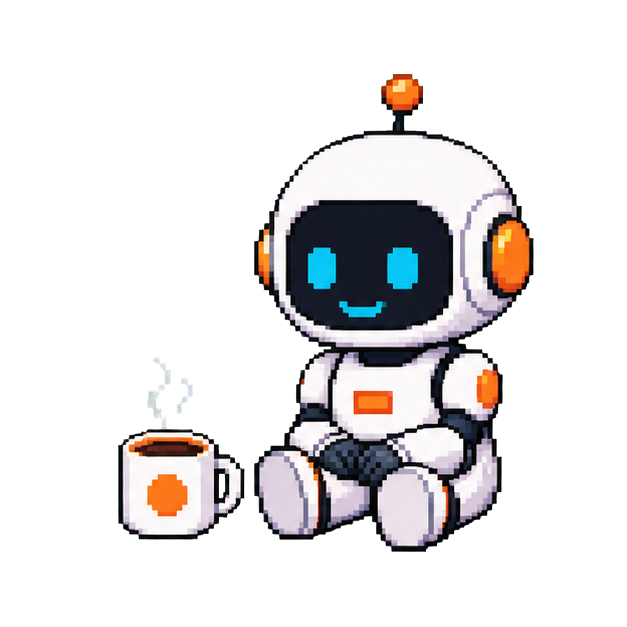
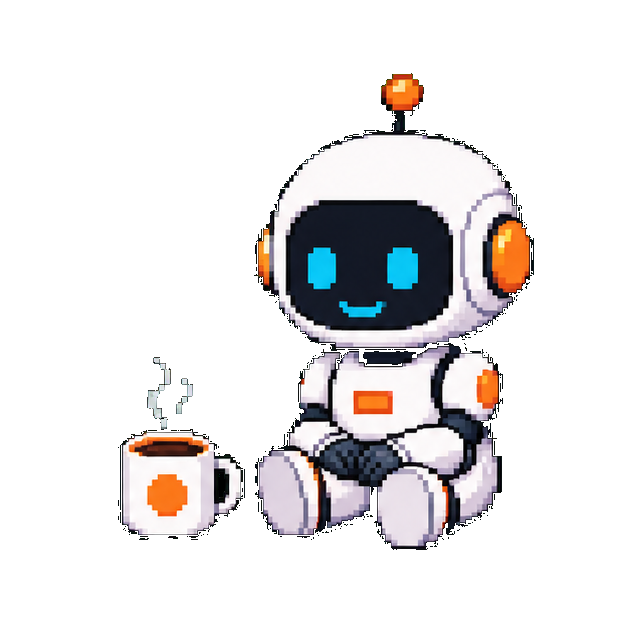
Bring the Mac focus companion in line with the iPhone app
The companion now uses the iPhone app's single-character artwork; the old
idle and paused files were sheets of four mascots, so the card showed half
robots. The companion card opens Progress. Poses react to a tap, the
working mascot breathes, effects show only after a tap, and Reduce Motion
turns all of it off.

The companion modes and their unlock thresholds live in one CompanionMode
type shared by Settings and the stage, and a locked mode falls back to Auto
when it is shown, not only when it is picked, so deleting sessions below a
threshold no longer leaves it unlocked.

Animations are not gated on scenePhase as on iPhone: Clockin's windows are
AppKit-hosted, outside a SwiftUI scene, and report `.background`, which froze
the mascot. Tap effects follow the interface size again.

diff --git a/Sources/Clockin/MascotAsset.swift b/Sources/Clockin/MascotAsset.swift
@@ -1,111 +1,220 @@
 import AppKit
 import SwiftUI
-import Combine
 
+enum MascotAsset: String {
+    case idle, working, paused, celebrate
+
+    /// Tek karakterli gorsel. `idle`/`paused` dosyalari eskiden dort maskotluk
+    /// birer sayfaydi ve kartta yarim robotlar gorunuyordu; artik `pose2` ve
+    /// `coffee1`'in kopyalari. Progress ekrani hala o adlarla okuyor.
+    var imageName: String {
+        switch self {
+        case .idle: "pose2"
+        case .paused: "coffee1"
+        case .working: "working"
+        case .celebrate: "celebrate"
+        }
+    }
+
+    var message: String {
+        switch self {
+        case .idle: "Ready when you are"
+        case .working: "You are doing great, keep going!"
+        case .paused: "Taking a reset break"
+        case .celebrate: "Every focused hour makes your companion stronger."
+        }
+    }
+}
+
+@MainActor
 struct ClockinMascotImage: View {
-    @AppStorage(UIScale.key) private var uiScaleObserver = UIScale.defaultPercent
     let asset: String
+    private static var images: [String: NSImage] = [:]
+
+    private static func image(named asset: String) -> NSImage? {
+        if let cached = images[asset] { return cached }
+        guard let url = Bundle.module.url(forResource: asset, withExtension: "png"),
+              let image = NSImage(contentsOf: url) else { return nil }
+        images[asset] = image
+        return image
+    }
+
     var body: some View {
         Group {
-            if let url = Bundle.module.url(forResource: asset, withExtension: "png"), let image = NSImage(contentsOf: url) {
+            if let image = Self.image(named: asset) {
                 Image(nsImage: image).resizable().interpolation(.none).scaledToFit()
             } else {
-                Image(systemName: "sparkles").resizable().scaledToFit().padding(S(18)).foregroundStyle(.cyan)
+                Image(systemName: "sparkles").resizable().scaledToFit()
+                    .padding(S(18)).foregroundStyle(.cyan)
             }
         }
+        .accessibilityHidden(true)
     }
 }
 
-struct ClockinTypingMascot: View {
-    var body: some View { ClockinFrameMascot(prefix: "frame", interval: 0.18) }
-}
-
-struct ClockinCoffeeMascot: View {
-    var body: some View { ClockinFrameMascot(prefix: "coffee", interval: 0.28) }
-}
-
-struct ClockinMascotEffects: View {
-    @State private var effect = Int.random(in: 0...4)
-    @State private var animate = false
-    private let timer = Timer.publish(every: 8, on: .main, in: .common).autoconnect()
-    var body: some View {
-        ZStack {
-            switch effect {
-            case 0: Text("$  $  $").font(.system(size: S(10), weight: .black, design: .rounded)).foregroundStyle(.green).offset(x: 13, y: animate ? 27 : -24).opacity(animate ? 0 : 1)
-            case 1: Text("✦  ✧  ✦").font(.system(size: S(12), weight: .bold)).foregroundStyle(.orange).scaleEffect(animate ? 1.25 : 0.7).opacity(animate ? 0.2 : 1)
-            case 2: Text("♪  ♫  ♪").font(.system(size: S(12), weight: .bold)).foregroundStyle(.cyan).offset(x: animate ? 18 : -8, y: animate ? -20 : 8).opacity(animate ? 0 : 1)
-            case 3: Text("✹  ✹").font(.system(size: S(11), weight: .bold)).foregroundStyle(.yellow).rotationEffect(.degrees(animate ? 35 : -15)).opacity(animate ? 0.2 : 1)
-            default: Text("+XP").font(.system(size: S(10), weight: .black, design: .monospaced)).foregroundStyle(.green).offset(y: animate ? -25 : 2).opacity(animate ? 0 : 1)
-            }
-        }
-        .animation(.easeOut(duration: 1.6), value: animate)
-        .onAppear { animate = true }
-        .onReceive(timer) { _ in
-            effect = Int.random(in: 0...4)
-            animate = false
-            withAnimation(.easeOut(duration: 1.6)) { animate = true }
-        }
-        .contentShape(Rectangle())
-        .onTapGesture {
-            effect = Int.random(in: 0...4)
-            animate = false
-            withAnimation(.spring(response: 0.25, dampingFraction: 0.65)) { animate = true }
-        }
-    }
-}
-
+@MainActor
 struct ClockinMascotStage: View {
-    @EnvironmentObject private var store: ClockStore
+    @Environment(\.accessibilityReduceMotion) private var reduceMotion
     @AppStorage("Clockin.MascotDefault") private var defaultMode = "Auto"
+    @EnvironmentObject private var store: ClockStore
+    private var state: MascotAsset {
+        guard let running = store.running else { return .idle }
+        return running.isPaused ? .paused : .working
+    }
     @State private var pose: Int?
     @State private var poseToken = UUID()
+
     var body: some View {
-        ZStack {
-            if let pose { ClockinPoseMascot(index: pose) }
-            else if defaultMode == "Typing" { ClockinTypingMascot() }
-            else if defaultMode == "Coffee" { ClockinCoffeeMascot() }
-            else if let fixed = ["Victory", "Stretch", "Dance", "Music"].firstIndex(of: defaultMode) { ClockinPoseMascot(index: fixed + 1) }
-            else if store.running?.isPaused == false { ClockinTypingMascot() }
-            else if store.running?.isPaused == true { ClockinCoffeeMascot() }
-            else { ClockinMascotImage(asset: "idle") }
-            ClockinMascotEffects()
+        // Esik burada da denetlenir: secildikten sonra oturumlar silinip toplam
+        // sure esigin altina duserse kilitli mod acik kalmasin.
+        let mode = CompanionMode.resolve(defaultMode, totalHours: (store.totalDuration + store.elapsed()) / 3600)
+        return ZStack {
+            if let pose {
+                ClockinPoseMascot(index: pose)
+            } else if mode == .typing {
+                ClockinFrameMascot(prefix: "frame", interval: 0.18)
+            } else if mode == .coffee {
+                ClockinFrameMascot(prefix: "coffee", interval: 0.28)
+            } else if let fixed = mode.fixedPoseIndex {
+                ClockinPoseMascot(index: fixed)
+            } else {
+                switch state {
+                case .working: ClockinFrameMascot(prefix: "frame", interval: 0.18)
+                case .paused: ClockinFrameMascot(prefix: "coffee", interval: 0.28)
+                case .idle, .celebrate: ClockinMascotImage(asset: state.imageName)
+                }
+            }
+            if !reduceMotion && pose != nil {
+                ClockinMascotEffects()
+                    .id(poseToken)
+                    .allowsHitTesting(false)
+            }
         }
+        .phaseAnimator(breathing ? [false, true] : [false]) { content, lifted in
+            content
+                .offset(y: breathing && lifted ? -1.5 : 0)
+                .scaleEffect(breathing && lifted ? 1.018 : 1, anchor: .bottom)
+        } animation: { _ in
+            breathing ? .easeInOut(duration: 2.4) : nil
+        }
+        .phaseAnimator([false, true, false], trigger: state) { content, settling in
+            content
+                .scaleEffect(!reduceMotion && settling ? 0.96 : 1)
+                .offset(y: !reduceMotion && settling ? 2 : 0)
+        } animation: { settling in
+            reduceMotion ? nil : (settling ? .easeOut(duration: 0.1) : .spring(duration: 0.4, bounce: 0.2))
+        }
+        .phaseAnimator([false, true, false], trigger: poseToken) { content, reacting in
+            content
+                .scaleEffect(!reduceMotion && reacting ? 1.12 : 1)
+                .rotationEffect(.degrees(!reduceMotion && reacting ? -7 : 0))
+                .offset(y: !reduceMotion && reacting ? -4 : 0)
+        } animation: { reacting in
+            reduceMotion ? nil : .spring(duration: reacting ? 0.2 : 0.45, bounce: 0.3)
+        }
+        .transaction { if reduceMotion { $0.animation = nil; $0.disablesAnimations = true } }
         .contentShape(Rectangle())
-        .onTapGesture {
-            let token = UUID(); poseToken = token; pose = Int.random(in: 1...4)
-            DispatchQueue.main.asyncAfter(deadline: .now() + 2.2) { if poseToken == token { pose = nil } }
+        .onTapGesture { showPose() }
+        .accessibilityElement(children: .ignore)
+        .accessibilityLabel("Focus companion")
+        .accessibilityAddTraits(.isButton)
+        .accessibilityAction { showPose() }
+        .task(id: poseToken) {
+            guard pose != nil else { return }
+            // Yeni dokunus eski beklemeyi iptal eder; poz erken kapanmaz.
+            do { try await Task.sleep(for: .seconds(2.2)) }
+            catch { return }
+            pose = nil
         }
+    }
+
+    private var breathing: Bool { state == .working && !reduceMotion }
+
+    private func showPose() {
+        pose = (1...4).filter { $0 != pose }.randomElement()
+        poseToken = UUID()
     }
 }
 
 private struct ClockinPoseMascot: View {
+    @Environment(\.accessibilityReduceMotion) private var reduceMotion
     let index: Int
-    @State private var moving = false
+
+    // `scenePhase` burada kullanilmaz: pencere AppKit'in NSHostingView'i ile
+    // aciliyor, bir SwiftUI sahnesine ait degil ve deger hep `.background`
+    // geliyor. Ona bakmak maskotu tamamen donduruyordu.
+    private var isAnimating: Bool { !reduceMotion }
+
     var body: some View {
-        Group {
-            if let url = Bundle.module.url(forResource: "pose\(index)", withExtension: "png"), let image = NSImage(contentsOf: url) {
-                Image(nsImage: image).resizable().interpolation(.none).scaledToFit()
-            } else { Image(systemName: "sparkles") }
-        }
-        .scaleEffect(moving ? (index == 3 ? 1.05 : 0.98) : 1)
-        .offset(x: moving && index == 3 ? 5 : 0, y: moving ? -2 : 2)
-        .rotationEffect(.degrees(moving && index == 2 ? 5 : (moving && index == 4 ? -4 : 0)))
-        .animation(.easeInOut(duration: index == 3 ? 0.28 : 0.7).repeatForever(autoreverses: true), value: moving)
-        .onAppear { moving = true }
+        ClockinMascotImage(asset: "pose\(index)")
+            .phaseAnimator(isAnimating ? [false, true] : [false]) { content, phase in
+                let moving = isAnimating && phase
+                content
+                    .scaleEffect(moving ? (index == 3 ? 1.05 : 0.98) : 1)
+                    .offset(x: moving && index == 3 ? 3 : 0, y: moving ? -2 : 0)
+                    .rotationEffect(.degrees(moving && index == 2 ? 4 : (moving && index == 4 ? -3 : 0)))
+            } animation: { _ in
+                isAnimating ? .easeInOut(duration: index == 3 ? 0.4 : 0.9) : nil
+            }
     }
 }
 
+@MainActor
 private struct ClockinFrameMascot: View {
+    @Environment(\.accessibilityReduceMotion) private var reduceMotion
     let prefix: String
     let interval: Double
     @State private var frame = 1
-    private var timer: Publishers.Autoconnect<Timer.TimerPublisher> { Timer.publish(every: interval, on: .main, in: .common).autoconnect() }
+
+    // `scenePhase`'e bakilmaz; nedeni `ClockinPoseMascot`'ta.
+    private var isAnimating: Bool { !reduceMotion }
+
     var body: some View {
-        Group {
-            if let url = Bundle.module.url(forResource: "\(prefix)\(frame)", withExtension: "png"), let image = NSImage(contentsOf: url) {
-                Image(nsImage: image).resizable().interpolation(.none).scaledToFit()
-            } else { Image(systemName: "keyboard") }
+        ClockinMascotImage(asset: "\(prefix)\(frame)")
+            .task(id: isAnimating) {
+                guard isAnimating else { return }
+                // Gorev gorunumle yasar; sayacin yenilenmesi kareleri sifirlamaz.
+                while !Task.isCancelled {
+                    do { try await Task.sleep(for: .seconds(interval)) }
+                    catch { return }
+                    frame = frame % 4 + 1
+                }
+            }
+    }
+}
+
+private struct ClockinMascotEffects: View {
+    // Oran degisince efekt boyutlari yeniden hesaplansin.
+    @AppStorage(UIScale.key) private var uiScaleObserver = UIScale.defaultPercent
+    @State private var start = Date()
+    @State private var seed = Int.random(in: 0...4)
+
+    var body: some View {
+        TimelineView(.animation(minimumInterval: 1.0 / 30)) { context in
+            let elapsed = max(0, context.date.timeIntervalSince(start))
+            let phase = min(elapsed.truncatingRemainder(dividingBy: 8) / 1.6, 1)
+            let eased = 1 - pow(1 - phase, 3)
+            let effect = (seed + Int(elapsed / 8)) % 5
+            Group {
+                switch effect {
+                case 0:
+                    Text("$  $  $").font(.system(size: S(10), weight: .black, design: .rounded))
+                        .foregroundStyle(.green).offset(x: S(13), y: S(-24 + 51 * eased)).opacity(1 - eased)
+                case 1:
+                    Text("✦  ✧  ✦").font(.system(size: S(12), weight: .bold))
+                        .foregroundStyle(.orange).scaleEffect(0.7 + 0.55 * eased).opacity(1 - 0.8 * eased)
+                case 2:
+                    Text("♪  ♫  ♪").font(.system(size: S(12), weight: .bold))
+                        .foregroundStyle(.cyan).offset(x: S(-8 + 26 * eased), y: S(8 - 28 * eased)).opacity(1 - eased)
+                case 3:
+                    Text("✹  ✹").font(.system(size: S(11), weight: .bold))
+                        .foregroundStyle(.yellow).rotationEffect(.degrees(-15 + 50 * eased)).opacity(1 - 0.8 * eased)
+                default:
+                    Text("+XP").font(.system(size: S(10), weight: .black, design: .monospaced))
+                        .foregroundStyle(.green).offset(y: S(2 - 27 * eased)).opacity(1 - eased)
+                }
+            }
         }
-        .onReceive(timer) { _ in frame = frame % 4 + 1 }
+        .accessibilityHidden(true)
     }
 }

diff --git a/Sources/Clockin/CompanionMode.swift b/Sources/Clockin/CompanionMode.swift
@@ -1,0 +1,57 @@
+import Foundation
+
+/// Maskotun sabit davranisi. `Auto` disindaki secenekler toplam calisma
+/// suresiyle aciliyor.
+///
+/// Bu isimler once iki yerde duz metindi: ayarlardaki secici onlari yaziyor,
+/// `ClockinMascotStage` okuyor. Bir taraftaki yazim degisse digeri hata
+/// vermeden Auto'ya duserdi, o yuzden tek kaynak burasi.
+enum CompanionMode: String, CaseIterable, Identifiable, Sendable {
+    case auto = "Auto"
+    case typing = "Typing"
+    case coffee = "Coffee"
+    case victory = "Victory"
+    case stretch = "Stretch"
+    case dance = "Dance"
+    case music = "Music"
+
+    var id: String { rawValue }
+
+    /// Bu modun acilmasi icin gereken toplam sure. Mac ile ayni esikler.
+    var requiredHours: Double {
+        switch self {
+        case .auto, .typing, .coffee: 0
+        case .victory: 10
+        case .stretch: 25
+        case .dance: 50
+        case .music: 100
+        }
+    }
+
+    func isUnlocked(totalHours: Double) -> Bool { totalHours >= requiredHours }
+
+    /// Kilitli bir secim Auto'ya duser. Kayitli deger taninmiyorsa da ayni:
+    /// eski ya da bozuk bir tercih maskotu kirmasin.
+    static func resolve(_ stored: String, totalHours: Double) -> CompanionMode {
+        guard let mode = CompanionMode(rawValue: stored),
+              mode.isUnlocked(totalHours: totalHours) else { return .auto }
+        return mode
+    }
+
+    /// Kilitli secenek listede esigiyle birlikte gorunur, secilemez.
+    func menuLabel(totalHours: Double) -> String {
+        isUnlocked(totalHours: totalHours) ? rawValue : "🔒 \(rawValue) · \(Int(requiredHours))h"
+    }
+
+    /// Sabit poz gorselinin sirasi. `auto` oturumu takip ettigi icin,
+    /// `typing` ve `coffee` de kareli animasyon oldugu icin pozu yok.
+    var fixedPoseIndex: Int? {
+        switch self {
+        case .auto, .typing, .coffee: nil
+        case .victory: 1
+        case .stretch: 2
+        case .dance: 3
+        case .music: 4
+        }
+    }
+}

diff --git a/Sources/Clockin/MainView.swift b/Sources/Clockin/MainView.swift
@@ -463,14 +463,24 @@ struct MainView: View {
     private var mascotCard: some View {
         return HStack(spacing: S(12)) {
             ClockinMascotStage().environmentObject(store).frame(width: S(62), height: S(62))
-            VStack(alignment: .leading, spacing: S(4)) {
-                Text("FOCUS COMPANION").font(.system(size: S(8), weight: .black)).foregroundStyle(.secondary).tracking(S(1))
-                Text(store.running?.isPaused == true ? "Taking a reset break" : (store.running == nil ? "Ready when you are" : "You are doing great — keep going!"))
-                    .font(.system(size: S(11), weight: .semibold))
-                Text("Open Progress with the XP button for streaks and levels")
-                    .font(.system(size: S(8))).foregroundStyle(.tertiary)
+            Button { tab = .progress } label: {
+                HStack(spacing: S(8)) {
+                    VStack(alignment: .leading, spacing: S(4)) {
+                        Text("FOCUS COMPANION").font(.system(size: S(8), weight: .black)).foregroundStyle(.secondary).tracking(S(1))
+                        Text(store.running?.isPaused == true ? "Taking a reset break" : (store.running == nil ? "Ready when you are" : "You are doing great — keep going!"))
+                            .font(.system(size: S(11), weight: .semibold))
+                        Text("See your streak and progress")
+                            .font(.system(size: S(8))).foregroundStyle(theme.accent)
+                    }
+                    Spacer(minLength: 0)
+                    Image(systemName: "chevron.right")
+                        .font(.system(size: S(10), weight: .semibold)).foregroundStyle(.tertiary)
+                }
+                .contentShape(Rectangle())
             }
-            Spacer()
+            .buttonStyle(.plain)
+            .foregroundStyle(.primary)
+            .accessibilityHint("Opens Progress")
         }
         .padding(S(10)).background(cardBackground)
     }

diff --git a/Sources/Clockin/SettingsView.swift b/Sources/Clockin/SettingsView.swift
@@ -421,7 +421,10 @@ struct SettingsView: View {
 
     private var totalHours: Double { (store.totalDuration + store.elapsed()) / 3600 }
     private var mascotOptions: [(String, String, Double)] {
-        [("Auto", "Auto", 0), ("Typing", "Typing", 0), ("Coffee", "Coffee", 0), ("Victory", "Victory • 10h", 10), ("Stretch", "Stretch • 25h", 25), ("Dance", "Dance • 50h", 50), ("Music", "Music • 100h", 100)]
+        CompanionMode.allCases.map { mode in
+            let label = mode.requiredHours > 0 ? "\(mode.rawValue) • \(Int(mode.requiredHours))h" : mode.rawValue
+            return (mode.rawValue, label, mode.requiredHours)
+        }
     }
 
     private func chooseCSV() {
